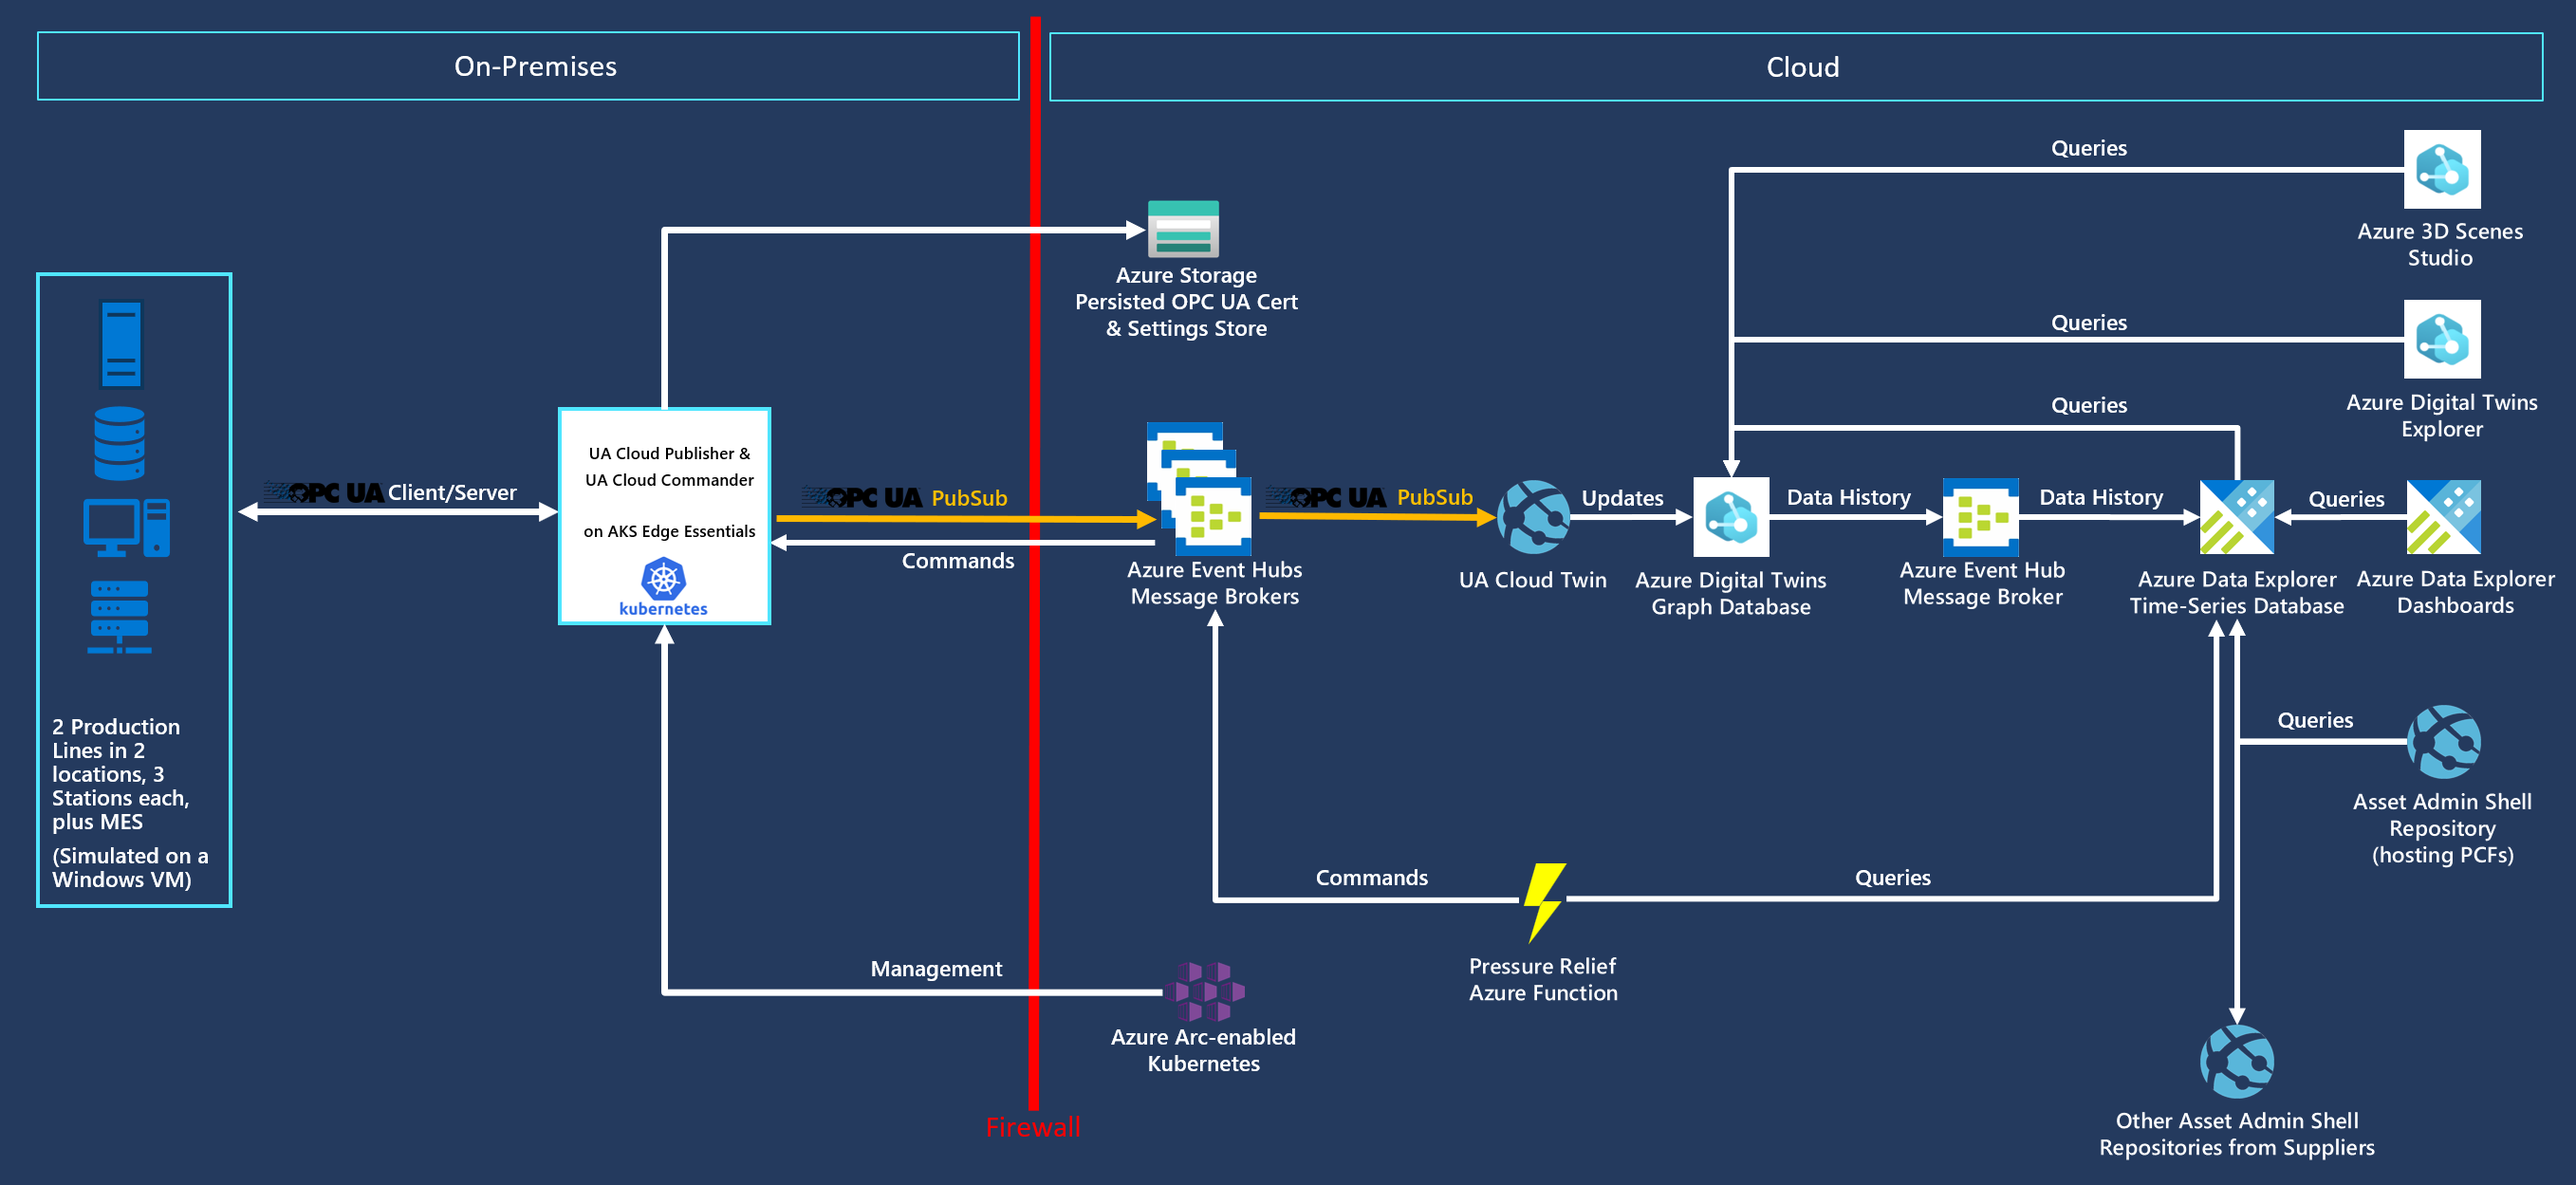
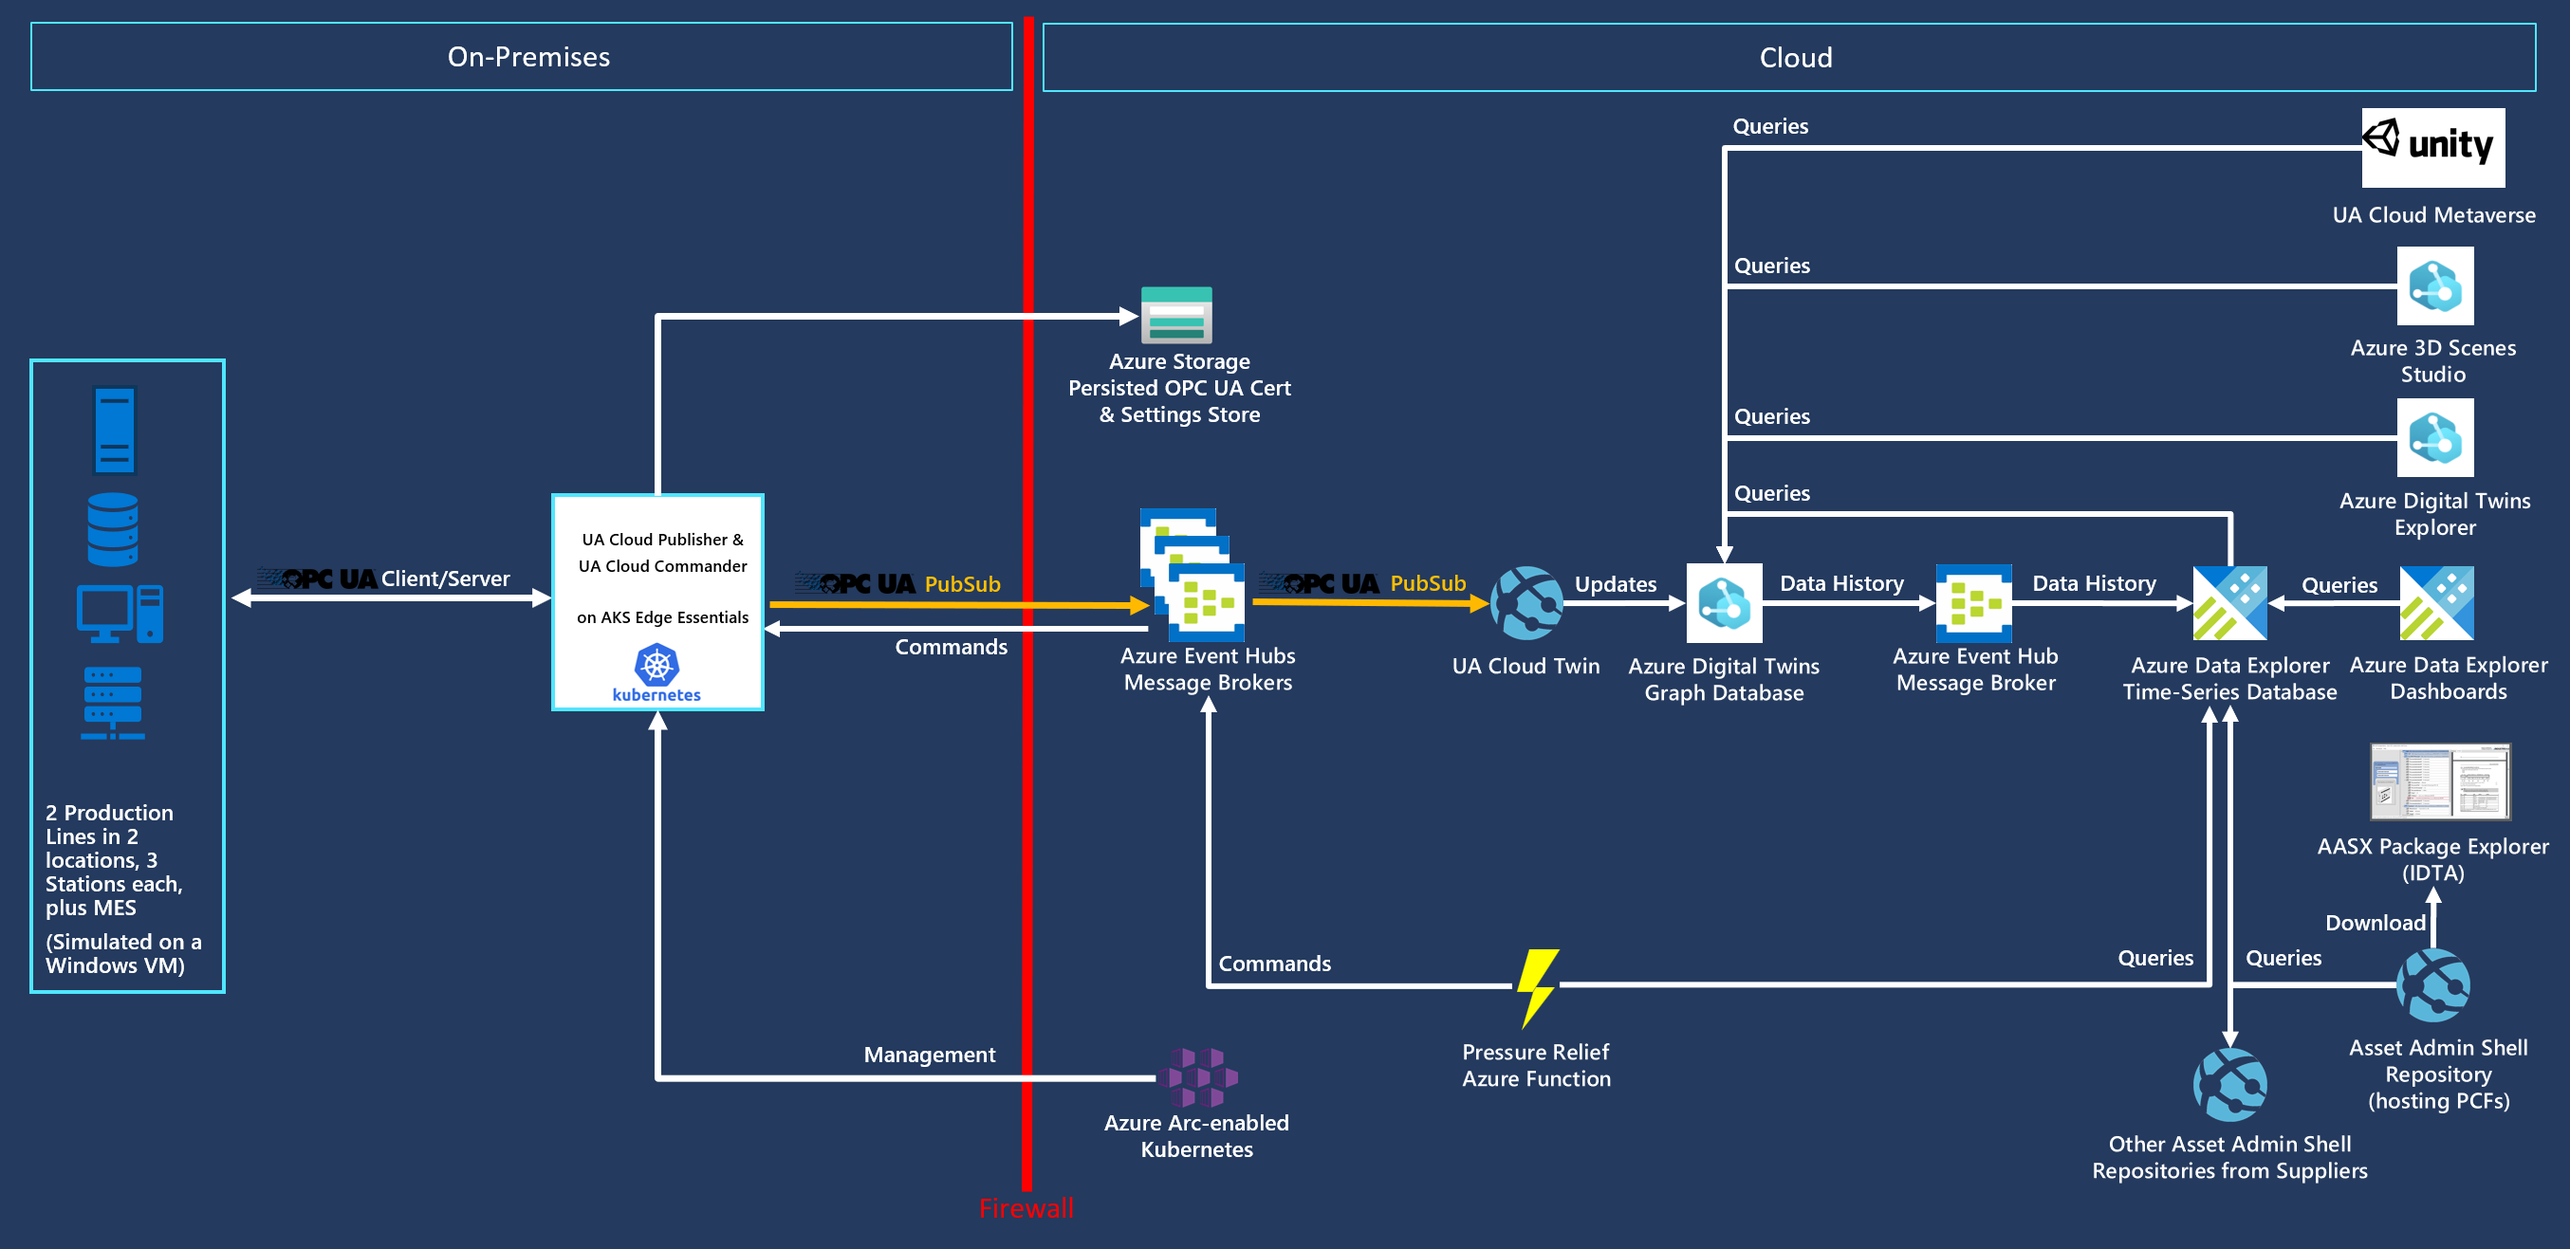
update architecture and docs.

Changed region(s): [[0.0, 0.0, 0.9922, 0.968], [0.8062, 0.8431, 0.9302, 0.9992]]

diff --git a/README.md b/README.md
@@ -41,8 +41,15 @@ Here are the components involved in this solution:
 | [Azure Data Explorer](https://learn.microsoft.com/en-us/azure/synapse-analytics/data-explorer/data-explorer-overview) | The time series database and front-end dashboard service for advanced cloud analytics, including built-in anomaly detection and predictions. |
 | [Pressure Relief Azure Function](https://github.com/digitaltwinconsortium/ManufacturingOntologies/tree/main/Tools/FactorySimulation/PressureReliefFunction) | This Azure Function queries the Azure Data Explorer for a specific data value (the pressure in one of the simulated production line machines) and calls UA Cloud Commander via Azure Event Hubs when a certain threshold is reached (4000 mbar). UA Cloud Commander then calls the OpenPressureReliefValve method on the machine via OPC UA. |
 | [Azure Arc](https://learn.microsoft.com/en-us/azure/azure-arc/kubernetes/overview) | This cloud service is used to manage the on-premises Kubernetes cluster at the edge. New workloads can be deployed via Flux. |
+| [Azure Storage](https://learn.microsoft.com/en-us/azure/storage/common/storage-introduction) | This cloud service is used to manage the OPC UA certificate store and settings of the Edge Kubernetes workloads. |
+| [Azure 3D Scenes Studio](https://github.com/digitaltwinconsortium/ManufacturingOntologies#using-3d-scenes-studio) | This cloud app allows the creation of 3D immersive viewers for your manufacturing data. |
+| [Azure Digital Twins Explorer](https://github.com/digitaltwinconsortium/ManufacturingOntologies#view-digital-twins-in-azure-digital-twins-explorer) | This cloud app allows you to view your digital twins in an interactive UI. |
+| [Azure Data Explorer Dashboards](https://github.com/digitaltwinconsortium/ManufacturingOntologies#condition-monitoring-calculating-oee-detecting-anomalies-and-making-predictions-in-azure-data-explorer) | This cloud app allows the creation of 2D viewers for your manufacturing data. |
+| [Asset Admin Shell Repository](https://github.com/digitaltwinconsortium/AAS-Repository) | This REST web service and UI allows you to host Asset Administration Shells containing product information for your customers in a machine-readable format. |
+| [AASX Package Explorer](https://github.com/admin-shell-io/aasx-package-explorer) | This app allows you to view and modify Asset Administration Shells on your PC. |
+| [UA Cloud Metaverse](https://github.com/barnstee/UA-CloudMetaverse) | This Industrial Metaverse app allows you to view digital twins of our manufacturing assets via Augmented Reality or Virtual Reality headsets. Work in progress! |
 
-:exclamation: In a real-world deployment, someting as critical as opening a pressure relief valve would of course be done on-premises and this is just a simple example of how to achieve the digital feedback loop.
+:exclamation: In a real-world deployment, something as critical as opening a pressure relief valve would of course be done on-premises and this is just a simple example of how to achieve the digital feedback loop.
 
 Here are the data flow steps:
 
@@ -61,7 +68,7 @@ The simulation makes use of the UA Cloud Twin also available from the Digital Tw
 
 #### Mapping OPC UA Servers to the ISA95 Hierarchy Model
 
-UA Cloud Twin takes the combination of the OPC UA Application URI and the OPC UA Namespace URIs discovered in the OPC UA telemetry stream (specifically, in the OPC UA PubSub metadata messages) and creates OPC UA Nodeset digital twin instances (inherited from the ISA95 Work Center digital twin model) for each one. UA Cloud Publisher sends the OPC UA PubSub metadata messages to a seperate broker topic to make sure all metadata can be read by UA Cloud Twin before the processing of the telemetry messags starts.
+UA Cloud Twin takes the combination of the OPC UA Application URI and the OPC UA Namespace URIs discovered in the OPC UA telemetry stream (specifically, in the OPC UA PubSub metadata messages) and creates OPC UA Nodeset digital twin instances (inherited from the ISA95 Work Center digital twin model) for each one. UA Cloud Publisher sends the OPC UA PubSub metadata messages to a separate broker topic to make sure all metadata can be read by UA Cloud Twin before the processing of the telemetry messages starts.
 
 #### Mapping OPC UA PubSub Publishers to the ISA95 Hierarchy Model
 
@@ -106,19 +113,19 @@ The following OPC UA Node IDs are used in the Station OPC UA Server for telemetr
 
 ## Calculating the Product Carbon Footprint (PCF)
 
-One of the most popular use cases for the Asset Administration Shell (AAS) is to make the Product Carbon Footprint (PCF) of manufactured products avialable to customers of those products. In fact, the AAS will most likely become the underlying technology in the upcoming [Digital Product Passport (DPP)](https://circulareconomy.europa.eu/platform/en/news-and-events/all-events/eu-digital-product-passport-learning-frontrunners) initiative from the European Union. To calculate the PCF, all three scopes of emissions need to be taken into account:
+One of the most popular use cases for the Asset Administration Shell (AAS) is to make the Product Carbon Footprint (PCF) of manufactured products available to customers of those products. In fact, the AAS will most likely become the underlying technology in the upcoming [Digital Product Passport (DPP)](https://circulareconomy.europa.eu/platform/en/news-and-events/all-events/eu-digital-product-passport-learning-frontrunners) initiative from the European Union. To calculate the PCF, all three scopes of emissions need to be taken into account:
 
 ### Scope 1 Emissions
 
-These emissions come from all sources the manufacturer uses to burn fossil fules, either during production (for example when the manufacturer has a natural gas-powered production process) or before (for example picking up parts by truck) or afterwards (for example the cars of sales people or the delivery trucks with the produced products). They are relatively easy to calculate as the emissions from fossil fuel-powered engines are a well-understood quantity. This reference solution simply adds a fixed value for scope 1 emissions to the total product carbon footprint.
+These emissions come from all sources the manufacturer uses to burn fossil fuels, either during production (for example when the manufacturer has a natural gas-powered production process) or before (for example picking up parts by truck) or afterwards (for example the cars of sales people or the delivery trucks with the produced products). They are relatively easy to calculate as the emissions from fossil fuel-powered engines are a well-understood quantity. This reference solution simply adds a fixed value for scope 1 emissions to the total product carbon footprint.
 
 ### Scope 2 Emissions
 
-These emissions come from the eletricity used during production. If the manufacturer uses a 100% renewable energy provider, the scope 2 emissions are zero. However, most manufacturers have long-term contracts with energy providers and need to ask their energy provider for the carbon intensity per KWh of energy delivered. If this data is not available, an average for the electricity grid region the manufacturing site is in should be used. This data is available through services like [WattTime](https://www.watttime.org) and this is what this reference solution uses via the built-in [Asset Admin Shell Repository](https://github.com/digitaltwinconsortium/AAS-Repository) also available open-source from the Digital Twin Consortium. Please see below on how to configure this part of the reference solution after deployment. The PCF calculation first checks if a new product was successfully produced by the production line, retrieves the produced product's serial number, followed by the energy consumption of each machine of the production line while the new product was produced by the machine and then applies the carbon intensity to the sum of all machines' energy comsumption.
+These emissions come from the electricity used during production. If the manufacturer uses a 100% renewable energy provider, the scope 2 emissions are zero. However, most manufacturers have long-term contracts with energy providers and need to ask their energy provider for the carbon intensity per KWh of energy delivered. If this data is not available, an average for the electricity grid region the manufacturing site is in should be used. This data is available through services like [WattTime](https://www.watttime.org) and this is what this reference solution uses via the built-in [Asset Admin Shell Repository](https://github.com/digitaltwinconsortium/AAS-Repository) also available open-source from the Digital Twin Consortium. Please see below on how to configure this part of the reference solution after deployment. The PCF calculation first checks if a new product was successfully produced by the production line, retrieves the produced product's serial number, followed by the energy consumption of each machine of the production line while the new product was produced by the machine and then applies the carbon intensity to the sum of all machines' energy consumption.
 
 ### Scope 3 Emissions
 
-These emissions come from the parts and raw materials used within the product being manufactured as well as from using the product by the end customer (and getting it into the customer's hands in the first place!) and are the hardest to calculate simply due to a lack of data from the worldwide suppliers manufacturer uses today. Unfortunaterly, scope 3 emissions make up almost 90% of the emissions in manufacturing. However, this is where the AAS can help create a standardized interface and data model to provide and retrieve scope 3 emissions. This reference solution does just that by making an AAS available for each manufactured product built by the simulated production line and also reads PCF data from another AAS simulating a manufacturing supply chain.
+These emissions come from the parts and raw materials used within the product being manufactured as well as from using the product by the end customer (and getting it into the customer's hands in the first place!) and are the hardest to calculate simply due to a lack of data from the worldwide suppliers manufacturer uses today. Unfortunately, scope 3 emissions make up almost 90% of the emissions in manufacturing. However, this is where the AAS can help create a standardized interface and data model to provide and retrieve scope 3 emissions. This reference solution does just that by making an AAS available for each manufactured product built by the simulated production line and also reads PCF data from another AAS simulating a manufacturing supply chain.
 
 ## Installation of Production Line Simulation and Cloud Services
 
@@ -183,7 +190,7 @@ To access Azure Digital Twins Explorer, first make sure you have the [Azure Digi
 
 You can also visit the [Azure Data Explorer documentation](https://learn.microsoft.com/en-us/azure/synapse-analytics/data-explorer/data-explorer-overview) to learn how to create no-code dashboards for condition monitoring, yield or maintenance predictions, or anomaly detection. There are a number of sample queries in the `./Tools/FactorySimulation/ADXQueries` folder in this repository to get you started, plus we have provided a sample dashboard in the same folder that you can deploy by following the steps outlined [here](https://learn.microsoft.com/en-us/azure/data-explorer/azure-data-explorer-dashboards#to-create-new-dashboard-from-a-file).
 
-Note: In each of the queries and in the provided ADX dashboard configuration file, replace `<ADTHistoryTableName>` with the name of your ADT history table. This name can be copied from the Azure Data Explorer page of this solutions's deployed instance in the Azure Portal under Query -> the deployed ADX cluster instance name -> the deployed ADX database instance name -> the ADT history table name.
+Note: In each of the queries and in the provided ADX dashboard configuration file, replace `<ADTHistoryTableName>` with the name of your ADT history table. This name can be copied from the Azure Data Explorer page of this solutions' deployed instance in the Azure Portal under Query -> the deployed ADX cluster instance name -> the deployed ADX database instance name -> the ADT history table name.
 
 ## Using 3D Scenes Studio
 
